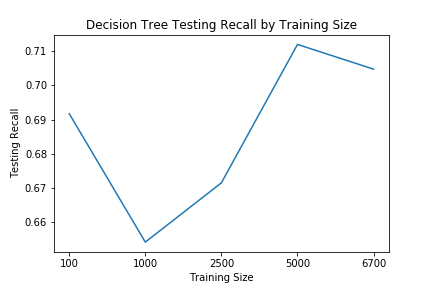
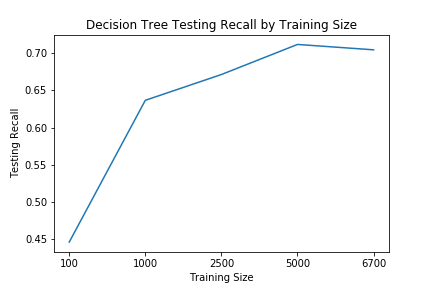
switched to a single cross validation for each model to better compare apples to apples

diff --git a/Supervised Learning/churn.py b/Supervised Learning/churn.py
@@ -90,6 +90,16 @@ final_query_time = []
 
 file.write("DECISION TREE RESULTS\n")
 
+# Run cross validation on main training set to choose parameters
+dt = DecisionTreeClassifier(criterion='entropy', random_state=13)
+parameters = {'max_depth':(3, 5, 10), 'min_samples_split':(10,20)} # Set parameters to be used in gridsearch
+clf = GridSearchCV(dt, parameters, 'recall', cv=5) # perform gridsearch and cross validation
+clf.fit(X_train, y_train)
+file.write("Best Classifier Chosen: " + str(clf.best_estimator_)+'\n')
+file.write("Cross Validation Results: " + str(clf.cv_results_['mean_test_score'])+'\n')
+clf_best = clf.best_estimator_
+
+
 # Initialize empty lists to store data
 in_accuracy = []
 in_precision = []
@@ -106,15 +116,11 @@ i = 1
 for X, y in training_sets: 
     file.write('Training Set %s:\n' % (i))
     start_time = time.time()
-    dt = DecisionTreeClassifier(criterion='entropy', random_state=13)
-    parameters = {'max_depth':(3, 5, 10), 'min_samples_split':(10,20)} # Set parameters to be used in gridsearch
-    clf = GridSearchCV(dt, parameters, 'recall', cv=5) # perform gridsearch and cross validation
-    clf.fit(X, y)
+    clf_best.fit(X, y)
     end_time = time.time()
     training_time.append(end_time-start_time)
     file.write("Decision Tree training time: " + str(end_time-start_time)+'\n')
-    file.write("Best Classifier Chosen: " + str(clf.best_estimator_)+'\n')
-    file.write("Cross Validation Results: " + str(clf.cv_results_['mean_test_score'])+'\n')
+    
 
     # Get predictions for in sample data
     start_time = time.time()
@@ -235,6 +241,15 @@ plt.figure()
 
 file.write("DECISION TREE W/ BOOSTING RESULTS\n")
 
+# Run cross validation on main training set to choose parameters
+parameters = {'base_estimator__max_depth':(1,5,10,25,50), 'base_estimator__min_samples_split':(5,10,15)}
+ada = AdaBoostClassifier(base_estimator = dt, n_estimators=50, random_state=13)
+clf = GridSearchCV(ada, parameters) # perform gridsearch and cross validation
+clf.fit(X_train, y_train)
+clf_best = clf.best_estimator_
+file.write("Best Classifier Chosen: " + str(clf.best_estimator_)+'\n')
+file.write("Cross Validation Results: " + str(clf.cv_results_['mean_test_score'])+'\n')
+
 # Initialize empty lists to store data
 in_accuracy = []
 in_precision = []
@@ -251,14 +266,10 @@ i = 1
 for X, y in training_sets: 
     file.write('Training Set %s:\n' % (i))
     start_time = time.time()
-    parameters = {'base_estimator__max_depth':(1,5,10,25,50), 'base_estimator__min_samples_split':(5,10,15)}
-    ada = AdaBoostClassifier(base_estimator = dt, n_estimators=50, random_state=13)
-    clf = GridSearchCV(ada, parameters) # perform gridsearch and cross validation
-    clf.fit(X, y)
+    clf_best.fit(X, y)
     end_time = time.time()
     training_time.append(end_time-start_time)
     file.write("Boosted Decision Tree training time: " + str(end_time-start_time)+'\n')
-    file.write("Best Classifier Chosen: " + str(clf.best_estimator_)+'\n')
 
     # Get predictions for in sample data
     start_time = time.time()
@@ -379,6 +390,15 @@ plt.figure()
 
 file.write("K NEAREST NEIGHBORS RESULTS\n")
 
+# Run cross validation on main training set to choose parameters
+knn = KNeighborsClassifier()
+parameters = {'n_neighbors':(1,5,10,20), 'weights':('uniform','distance')}
+clf = GridSearchCV(knn, parameters) # perform gridsearch and cross validation
+clf.fit(X_train, y_train)
+clf_best = clf.best_estimator_
+file.write("Best Classifier Chosen: " + str(clf.best_estimator_)+'\n')
+file.write("Cross Validation Results: " + str(clf.cv_results_['mean_test_score'])+'\n')
+
 # Initialize empty lists to store data
 in_accuracy = []
 in_precision = []
@@ -395,14 +415,10 @@ i = 1
 for X, y in training_sets_scaled: 
     file.write('Training Set %s:\n' % (i))
     start_time = time.time()
-    knn = KNeighborsClassifier()
-    parameters = {'n_neighbors':(1,5,10,20), 'weights':('uniform','distance')}
-    clf = GridSearchCV(knn, parameters) # perform gridsearch and cross validation
-    clf.fit(X, y)
+    clf_best.fit(X, y)
     end_time = time.time()
     training_time.append(end_time-start_time)
     file.write("KNN training time: " + str(end_time-start_time)+'\n')
-    file.write("Best Classifier Chosen: " + str(clf.best_estimator_)+'\n')
 
     # Get predictions for in sample data
     start_time = time.time()
@@ -523,6 +539,15 @@ plt.figure()
 
 file.write("SUPPORT VECTOR MACHINE RESULTS\n")
 
+# Run cross validation on main training set to choose parameters
+svc = LinearSVC(random_state=13)
+parameters = {'loss':['hinge','squared_hinge'], 'tol':[1e-4, 1e-5, 0.01]}
+clf = GridSearchCV(knn, parameters) # perform gridsearch and cross validation
+clf.fit(X_train, y_train)
+clf_best = clf.best_estimator_
+file.write("Best Classifier Chosen: " + str(clf.best_estimator_)+'\n')
+file.write("Cross Validation Results: " + str(clf.cv_results_['mean_test_score'])+'\n')
+
 # Initialize empty lists to store data
 in_accuracy = []
 in_precision = []
@@ -539,10 +564,7 @@ i = 1
 for X, y in training_sets_scaled: 
     file.write('Training Set %s:\n' % (i))
     start_time = time.time()
-    svc = LinearSVC(random_state=13)
-    parameters = {'loss':['hinge','squared_hinge'], 'tol':[1e-4, 1e-5, 0.01]}
-    clf = GridSearchCV(svc, parameters) # perform gridsearch and cross validation
-    clf.fit(X, y)
+    clf_best.fit(X, y)
     end_time = time.time()
     training_time.append(end_time-start_time)
     file.write("SVC training time: " + str(end_time-start_time)+'\n')
